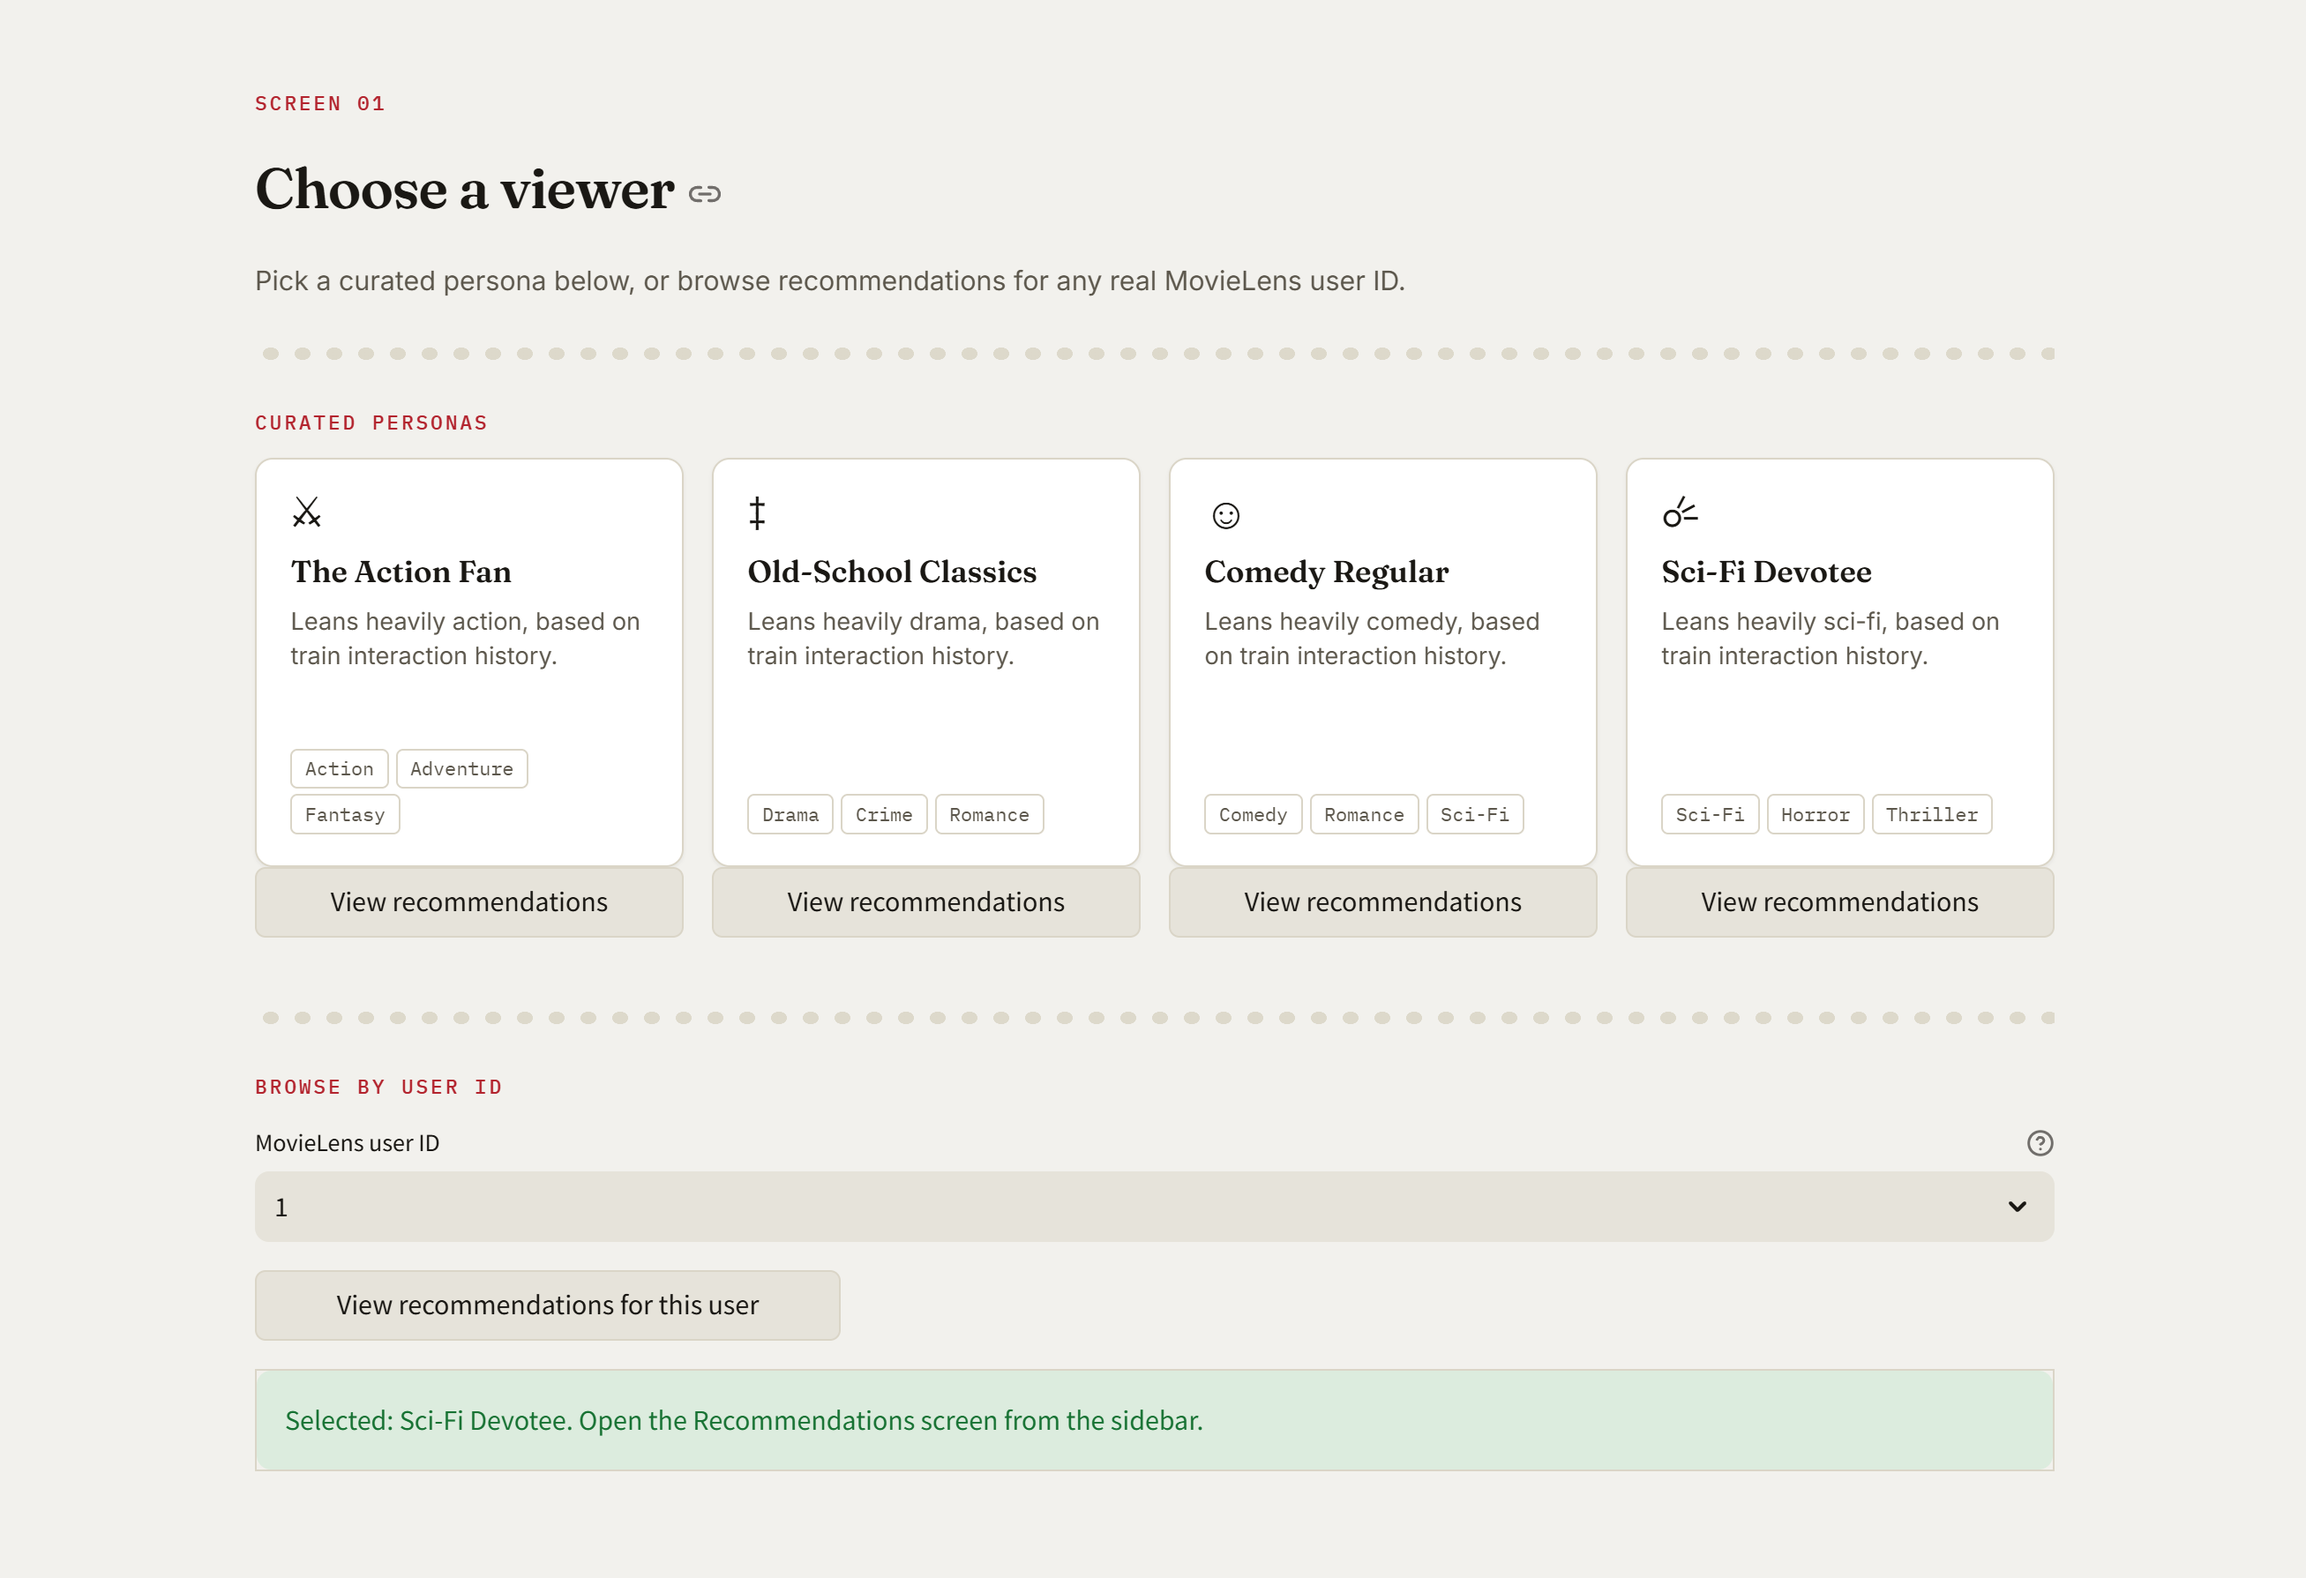
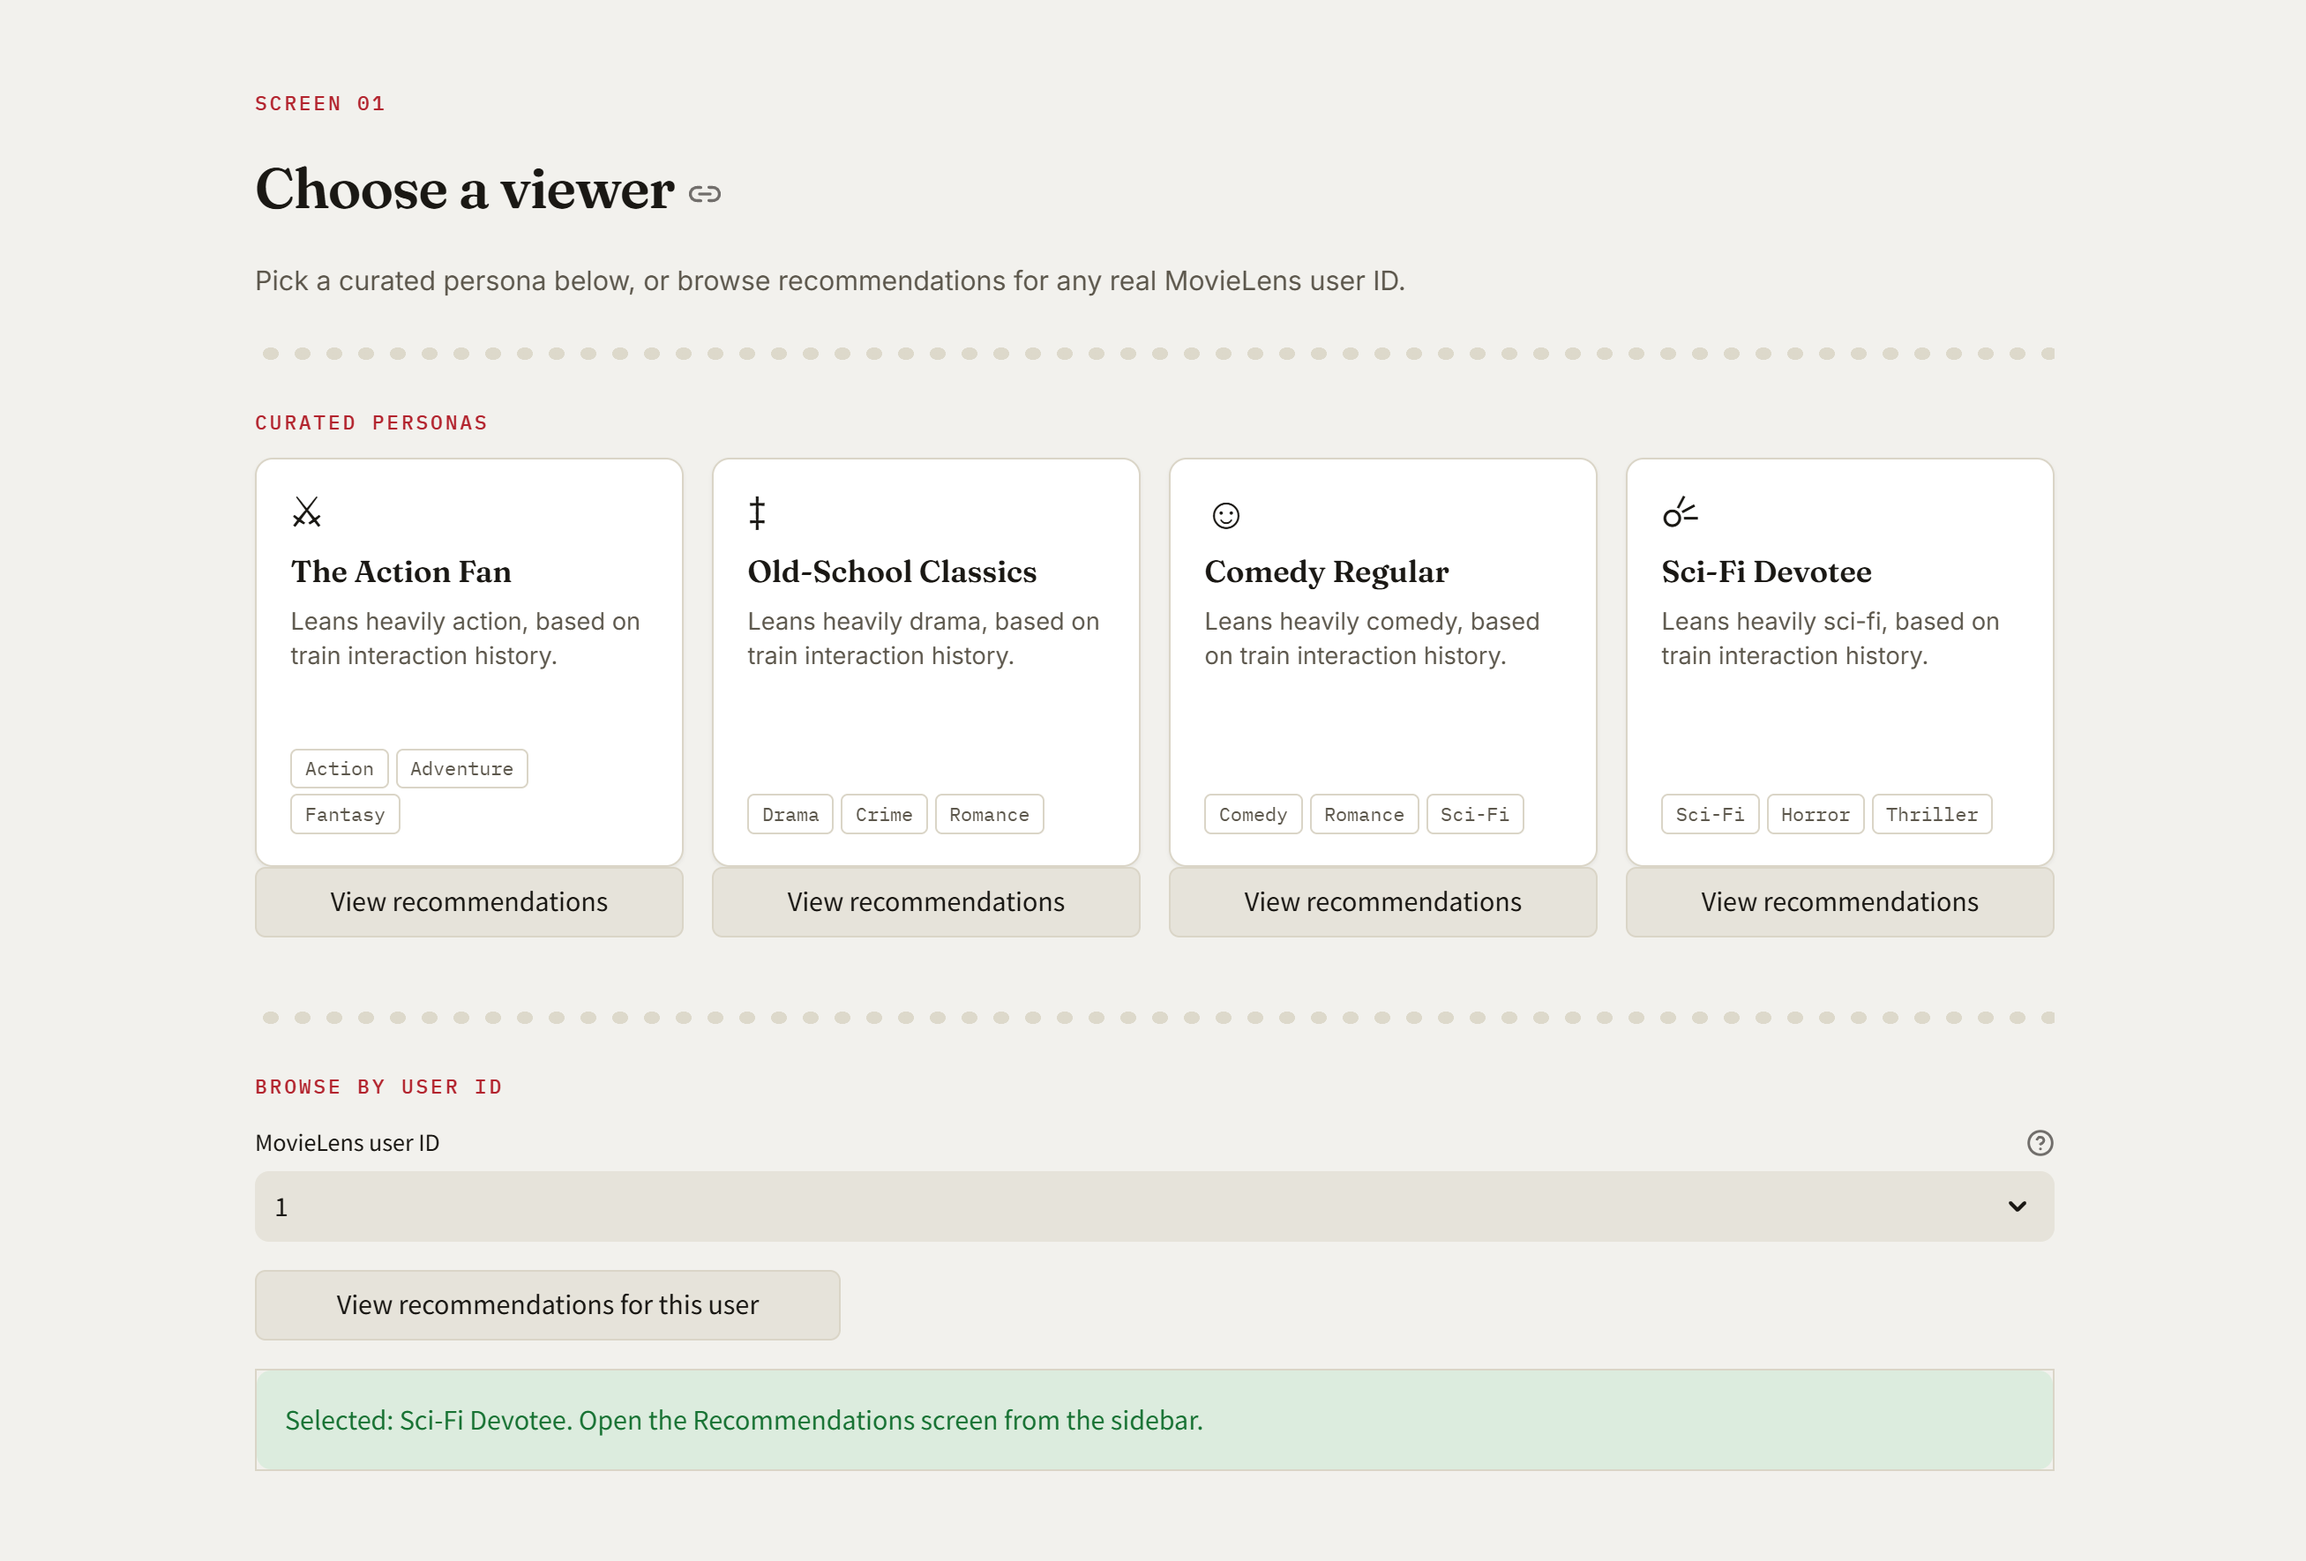
Assets update

diff --git a/README.md b/README.md
@@ -214,5 +214,5 @@ pytest tests/ -v
 ## Known limitations
 
 - **`results/comparison_table.csv` reflects whichever pipeline last wrote to it.** On a fresh clone, before running anything, the committed table is `scripts/generate_demo_artifacts.py`'s synthetic output (400 synthetic users, 350 fictional movies, for UI development/screenshotting only) -- not a real MovieLens 25M evaluation.
-- **Two-Tower's default hyperparameters (10 epochs, embedding_dim=64) can under-train relative to the other approaches.** On a full real ml-25m run, its recall@10 has come in below even the popularity baseline, paired with unusually high catalog coverage and a wide, unstable score range across a single user's top-K -- a pattern consistent with an embedding space that hasn't converged rather than a pipeline bug (SASRec and ALS, trained/run the same way on the same split, don't show this). If you see the same thing, more epochs is the first thing to try, not architecture changes -- the training loss curve typically hasn't flattened by epoch 10.
+- **Two-Tower's default hyperparameters (10 epochs, embedding_dim=64) can under-train relative to the other approaches.** On a full real ml-25m run, its recall@10 has come in below even the popularity baseline, paired with unusually high catalog coverage and a wide, unstable score range across a single user's top-K -- a pattern consistent with an embedding space that hasn't converged rather than a pipeline bug. If you see the same thing, more epochs is the first thing to try, not architecture changes -- the training loss curve typically hasn't flattened by epoch 10.
 - **MovieLens 25M is a static, historical snapshot**, ratings stop at the dataset's collection date. The comparison table reflects relative model quality on that snapshot, not current catalog or taste trends.
